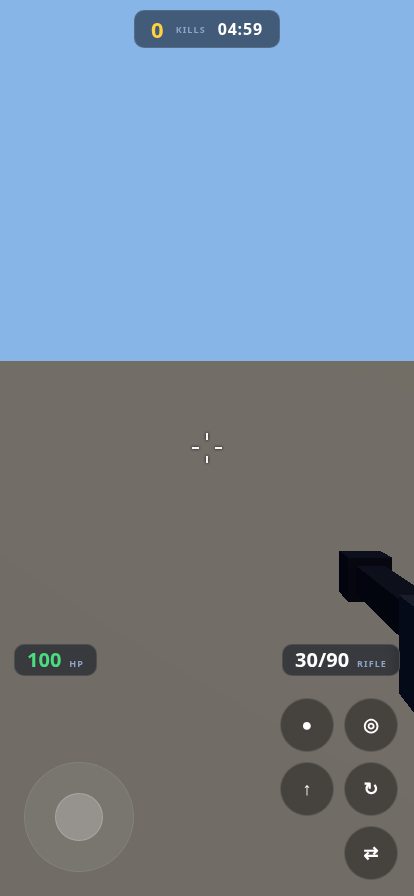
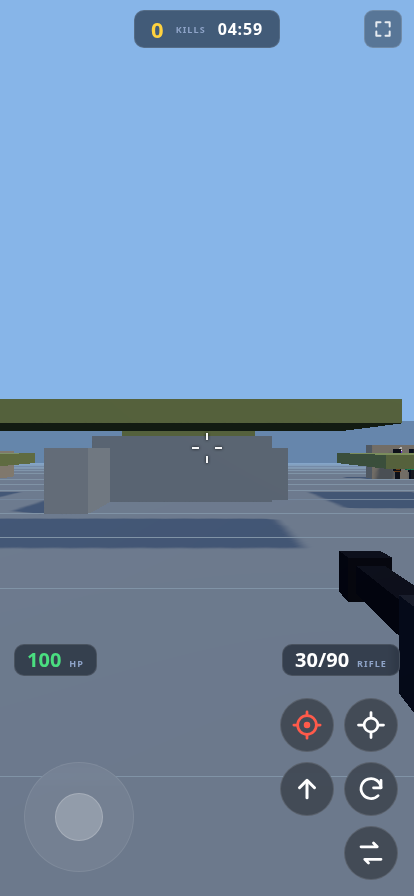
ACTUALIZACION PARA MOVILES CORRECTAMENTE IMPLEMENTADA MEJORAS  CONTUNDENTES

diff --git a/src/player/PlayerController.js b/src/player/PlayerController.js
@@ -59,11 +59,14 @@ export class PlayerController {
   update(dt) {
     if (!this.player.isAlive) return;
 
-    // Mobile look from touch
+    // Mobile look from touch — raw pixel delta, fixed scale.
+    // ~0.0038 rad/px: a full swipe across a 400px-tall screen ≈ 87°, matching
+    // standard mobile FPS feel. Dead zone ignores sub-pixel finger jitter.
     const touchLook = this.input.getLookDelta();
-    if (touchLook.x !== 0 || touchLook.y !== 0) {
-      this.yaw -= touchLook.x * 0.015;
-      this.pitch -= touchLook.y * 0.015;
+    const DEAD = 0.6; // px
+    if (Math.abs(touchLook.x) > DEAD || Math.abs(touchLook.y) > DEAD) {
+      this.yaw -= touchLook.x * 0.0038;
+      this.pitch -= touchLook.y * 0.0038;
       this.pitch = Math.max(-Math.PI/2 + 0.1, Math.min(Math.PI/2 - 0.1, this.pitch));
     }
 
@@ -108,50 +111,47 @@ export class PlayerController {
     }
     this.velocity.y -= this.gravity * dt;
 
-    // Apply movement with simple collision against map
+    // Integrate target position for this frame
     const nextPos = this.player.position.clone().addScaledVector(this.velocity, dt);
-    
-    // Simple ground check: highest walkable surface at or below feet (+step)
-    const feetY = nextPos.y - this.height;
-    const groundY = this.map ? this.map.getGroundY(nextPos.x, nextPos.z, feetY) : 0;
-    const playerBottom = feetY;
-    if (playerBottom <= groundY) {
-      nextPos.y = groundY + this.height;
+
+    // Ground resolve BEFORE wall checks: know the floor under the full next position
+    const groundY = this.map ? this.map.getGroundY(nextPos.x, nextPos.z, nextPos.y - this.height) : 0;
+
+    // Axis-separated movement resolution: try each axis independently from
+    // the CURRENT position; an axis only moves if its result is collision-free.
+    // This cannot tunnel through geometry (each step is validated) and slides
+    // naturally along walls.
+    const cand = this.player.position.clone();
+    // Y axis (gravity/jump)
+    cand.y = nextPos.y;
+    if (cand.y - this.height < groundY) {
+      cand.y = groundY + this.height;
       this.velocity.y = Math.max(0, this.velocity.y);
       this.onGround = true;
     } else {
       this.onGround = false;
     }
-
-    // Wall collision (simple AABB against map boxes)
-    if (this.map) {
-      const collided = this.map.checkCollision(nextPos, this.radius, this.height);
-      if (collided) {
-        // Simple slide: try X only, then Z only
-        const tryX = this.player.position.clone(); tryX.x = nextPos.x;
-        if (!this.map.checkCollision(tryX, this.radius, this.height)) {
-          nextPos.x = tryX.x;
-        } else {
-          this.velocity.x = 0;
-        }
-        const tryZ = this.player.position.clone(); tryZ.z = nextPos.z;
-        if (!this.map.checkCollision(tryZ, this.radius, this.height)) {
-          nextPos.z = tryZ.z;
-        } else {
-          this.velocity.z = 0;
-        }
-        // Y already handled
-        nextPos.y = this.player.position.y + this.velocity.y * dt;
-        if (nextPos.y - this.height <= groundY) {
-          nextPos.y = groundY + this.height;
-          this.onGround = true;
-          this.velocity.y = 0;
-        }
-      }
+    // X axis
+    const tryX = cand.clone(); tryX.x = nextPos.x;
+    if (!this.map || !this.map.checkCollision(tryX, this.radius, this.height)) {
+      cand.x = tryX.x;
+    } else {
+      this.velocity.x = 0;
     }
-
-    this.player.position.copy(nextPos);
-    this.player.position.y = Math.max(this.player.position.y, groundY + this.height);
+    // Z axis
+    const tryZ = cand.clone(); tryZ.z = nextPos.z;
+    if (!this.map || !this.map.checkCollision(tryZ, this.radius, this.height)) {
+      cand.z = tryZ.z;
+    } else {
+      this.velocity.z = 0;
+    }
+    // Final safety: if the combined position is somehow inside geometry
+    // (corner cases), revert to the previous safe position.
+    if (this.map && this.map.checkCollision(cand, this.radius, this.height)) {
+      cand.copy(this.player.position);
+      this.velocity.x = 0; this.velocity.z = 0;
+    }
+    this.player.position.copy(cand);
 
     // Update camera position (eyes) + subtle run bob
     const horizSpeed = Math.hypot(this.velocity.x, this.velocity.z);

diff --git a/src/core/Game.js b/src/core/Game.js
@@ -16,10 +16,13 @@ export class Game {
     this.scene.background = new THREE.Color(0x87b5e8);
     this.scene.fog = new THREE.Fog(0x87b5e8, 34, 90);
 
-    // Renderer — eficiencia: sin antialias en móvil, pixelRatio ≤1.5, sombras 1024
+    // Renderer — mobile renders at a sharper DPR cap, with a dynamic downscaler
+    // (_adaptResolution) if sustained frame time suffers. See PROJECT_RULES §6.
     const isMobile = window.innerWidth < 900 || /Android|iPhone|iPad|iPod/i.test(navigator.userAgent);
     this.renderer = new THREE.WebGLRenderer({ antialias: !isMobile, powerPreference: 'high-performance' });
-    this.renderer.setPixelRatio(Math.min(window.devicePixelRatio, isMobile ? 1.2 : 1.5));
+    this._dpr = { min: 0.9, max: isMobile ? 1.5 : 2.0, value: Math.min(window.devicePixelRatio, isMobile ? 1.5 : 2.0) };
+    this.renderer.setPixelRatio(this._dpr.value);
+    this._frameTimes = [];
     this.renderer.setSize(window.innerWidth, window.innerHeight);
     this.renderer.shadowMap.enabled = true;
     this.renderer.shadowMap.type = THREE.PCFSoftShadowMap;
@@ -218,6 +221,27 @@ export class Game {
     this.weaponSystem.isReloading = false;
   }
 
+  // Dynamic resolution: every ~1.5s of frames, if the average frame time is
+  // over budget (22ms ≈ 45fps), drop DPR a step; if comfortably under budget
+  // (14ms) and DPR below cap, raise it back. Keeps mobile sharp when it can
+  // afford it and smooth when it can't. Small steps avoid visible oscillation.
+  _adaptResolution(dt) {
+    this._frameTimes.push(dt);
+    if (this._frameTimes.length < 90) return; // ~1.5s at 60fps
+    const avg = this._frameTimes.reduce((a,b)=>a+b, 0) / this._frameTimes.length;
+    this._frameTimes.length = 0;
+    const step = 0.15;
+    if (avg > 0.022 && this._dpr.value > this._dpr.min) {
+      this._dpr.value = Math.max(this._dpr.min, this._dpr.value - step);
+      this.renderer.setPixelRatio(this._dpr.value);
+      this.renderer.setSize(window.innerWidth, window.innerHeight);
+    } else if (avg < 0.014 && this._dpr.value < this._dpr.max) {
+      this._dpr.value = Math.min(this._dpr.max, this._dpr.value + step);
+      this.renderer.setPixelRatio(this._dpr.value);
+      this.renderer.setSize(window.innerWidth, window.innerHeight);
+    }
+  }
+
   onResize() {
     this.camera.aspect = window.innerWidth / window.innerHeight;
     this.camera.updateProjectionMatrix();
@@ -392,6 +416,7 @@ export class Game {
 
     // FPS
     this.fps = 1/dt;
+    this._adaptResolution(dt);
 
     if(this.matchState !== 'PLAYING'){
       // Lobby camera: slow orbit over the arena — the game itself is the menu backdrop

diff --git a/src/core/Input.js b/src/core/Input.js
@@ -56,8 +56,26 @@ export class Input {
     const btnJump = document.getElementById('btn-jump');
     const btnReload = document.getElementById('btn-reload');
     const btnSwitch = document.getElementById('btn-switch');
+    const btnFullscreen = document.getElementById('btn-fullscreen');
 
     if (!joystickZone) return;
+
+    // Fullscreen (mobile browsers hide the address bar only in fullscreen;
+    // request must come from a user gesture — this tap is one)
+    if (btnFullscreen) {
+      const goFullscreen = () => {
+        const el = document.documentElement;
+        const req = el.requestFullscreen || el.webkitRequestFullscreen;
+        if (document.fullscreenElement || document.webkitFullscreenElement) {
+          (document.exitFullscreen || document.webkitExitFullscreen).call(document);
+        } else if (req) {
+          const p = req.call(el, { navigationUI: 'hide' });
+          if (p && p.catch) p.catch(()=>{});
+        }
+      };
+      btnFullscreen.addEventListener('touchstart', e => { e.preventDefault(); e.stopPropagation(); goFullscreen(); }, { passive: false });
+      btnFullscreen.addEventListener('click', e => { e.preventDefault(); e.stopPropagation(); goFullscreen(); });
+    }
 
     // Joystick
     let joystickActive = false;
@@ -133,10 +151,10 @@ export class Input {
       e.preventDefault();
       if (!lookActive) return;
       const t = e.touches[0];
-      const dx = t.clientX - lastLookX;
-      const dy = t.clientY - lastLookY;
-      this._touchLook.x = dx * 0.6;
-      this._touchLook.y = dy * 0.6;
+      // Accumulate raw deltas; consumed (and cleared) by getLookDelta each frame.
+      // Frame-rate independent: the consumer applies a fixed scale, no per-frame decay.
+      this._touchLook.x += (t.clientX - lastLookX);
+      this._touchLook.y += (t.clientY - lastLookY);
       lastLookX = t.clientX;
       lastLookY = t.clientY;
     }, { passive: false });
@@ -201,13 +219,14 @@ export class Input {
     return { reload, switchW };
   }
 
-  // For CameraController to get look delta
+  // For CameraController to get look delta: raw pixels accumulated since last
+  // frame. Consume-and-clear — no decay, no frame-rate dependence.
   getLookDelta() {
-    if (this._touchLook.active) {
+    if (this._touchLook.active || this._touchLook.x !== 0 || this._touchLook.y !== 0) {
       const x = this._touchLook.x;
       const y = this._touchLook.y;
-      this._touchLook.x *= 0.5; // damp
-      this._touchLook.y *= 0.5;
+      this._touchLook.x = 0;
+      this._touchLook.y = 0;
       return { x, y };
     }
     return { x: 0, y: 0 };

diff --git a/index.html b/index.html
@@ -39,16 +39,29 @@
 
   <!-- Mobile controls -->
   <div id="mobile-controls">
+    <button id="btn-fullscreen" aria-label="Pantalla completa">
+      <svg viewBox="0 0 24 24" fill="none" stroke="currentColor" stroke-width="2.4" stroke-linecap="round" stroke-linejoin="round"><path d="M4 9V4h5M20 9V4h-5M4 15v5h5M20 15v5h-5"/></svg>
+    </button>
     <div id="joystick-zone">
       <div id="joystick-base"><div id="joystick-stick"></div></div>
     </div>
     <div id="look-zone"></div>
     <div id="action-buttons">
-      <button id="btn-fire" class="action-btn">●</button>
-      <button id="btn-aim" class="action-btn">◎</button>
-      <button id="btn-jump" class="action-btn">↑</button>
-      <button id="btn-reload" class="action-btn">↻</button>
-      <button id="btn-switch" class="action-btn">⇄</button>
+      <button id="btn-fire" class="action-btn" aria-label="Disparar">
+        <svg viewBox="0 0 24 24" fill="none" stroke="currentColor" stroke-width="2.2" stroke-linecap="round" stroke-linejoin="round"><circle cx="12" cy="12" r="7.5"/><circle cx="12" cy="12" r="2.6" fill="currentColor" stroke="none"/><path d="M12 1.5v3M12 19.5v3M1.5 12h3M19.5 12h3"/></svg>
+      </button>
+      <button id="btn-aim" class="action-btn" aria-label="Apuntar">
+        <svg viewBox="0 0 24 24" fill="none" stroke="currentColor" stroke-width="2.2" stroke-linecap="round" stroke-linejoin="round"><circle cx="12" cy="12" r="5.5"/><path d="M2 12h4M18 12h4M12 2v4M12 18v4"/></svg>
+      </button>
+      <button id="btn-jump" class="action-btn" aria-label="Saltar">
+        <svg viewBox="0 0 24 24" fill="none" stroke="currentColor" stroke-width="2.4" stroke-linecap="round" stroke-linejoin="round"><path d="M12 19V6"/><path d="M6 11l6-6 6 6"/></svg>
+      </button>
+      <button id="btn-reload" class="action-btn" aria-label="Recargar">
+        <svg viewBox="0 0 24 24" fill="none" stroke="currentColor" stroke-width="2.2" stroke-linecap="round" stroke-linejoin="round"><path d="M20 11a8 8 0 1 0-2.3 6.3"/><path d="M20 5v6h-6"/></svg>
+      </button>
+      <button id="btn-switch" class="action-btn" aria-label="Cambiar arma">
+        <svg viewBox="0 0 24 24" fill="none" stroke="currentColor" stroke-width="2.2" stroke-linecap="round" stroke-linejoin="round"><path d="M4 7h13l-3-3M20 17H7l3 3"/></svg>
+      </button>
     </div>
   </div>
 

diff --git a/style.css b/style.css
@@ -79,12 +79,20 @@ body{ background:#080c14; font-family: ui-sans-system, system-ui, -apple-system,
 @media (pointer: coarse), (max-width: 900px){
   #mobile-controls{ display:block; }
 }
+#btn-fullscreen{ position:absolute; top:10px; right:12px; width:38px; height:38px; border-radius:9px; border:1px solid rgba(255,255,255,0.15); background: rgba(0,0,0,0.35); color:rgba(255,255,255,0.85); backdrop-filter: blur(6px); display:grid; place-items:center; pointer-events:auto; padding:0; touch-action:manipulation; }
+#btn-fullscreen svg{ width:20px; height:20px; }
+#btn-fullscreen:active{ background: rgba(255,210,60,0.25); }
+/* hide when already fullscreen (and in landscape where space is scarce) */
+:fullscreen #btn-fullscreen{ display:none; }
 #joystick-zone{ position:absolute; left:0; bottom:0; width:42%; height:45%; pointer-events:auto; }
 #joystick-base{ position:absolute; left:24px; bottom:24px; width:110px; height:110px; border-radius:50%; background: rgba(255,255,255,0.06); border:1px solid rgba(255,255,255,0.08); backdrop-filter: blur(6px); }
 #joystick-stick{ position:absolute; left:50%; top:50%; transform:translate(-50%,-50%); width:48px; height:48px; border-radius:50%; background: rgba(255,255,255,0.22); border:1px solid rgba(255,255,255,0.18); transition: transform 0.05s; }
 #look-zone{ position:absolute; right:0; top:0; width:58%; height:100%; pointer-events:auto; }
 #action-buttons{ position:absolute; right:16px; bottom:16px; display:flex; gap:10px; pointer-events:auto; flex-wrap:wrap; justify-content:flex-end; max-width:180px; }
-.action-btn{ width:54px; height:54px; border-radius:50%; border:1px solid rgba(255,255,255,0.12); background: rgba(0,0,0,0.38); color:#fff; font-size:18px; font-weight:900; backdrop-filter: blur(6px); touch-action:none; }
+.action-btn{ width:54px; height:54px; border-radius:50%; border:1px solid rgba(255,255,255,0.12); background: rgba(0,0,0,0.38); color:#fff; backdrop-filter: blur(6px); touch-action:none; display:grid; place-items:center; padding:0; }
+.action-btn svg{ width:30px; height:30px; pointer-events:none; }
+#btn-fire svg{ color:#ff5a4a; }
+#btn-aim:active svg{ color:#ffd23f; }
 .action-btn:active{ transform:scale(0.92); background: rgba(255,210,60,0.22); border-color: rgba(255,210,60,0.4); }
 
 /* Lobby / Overlay */
